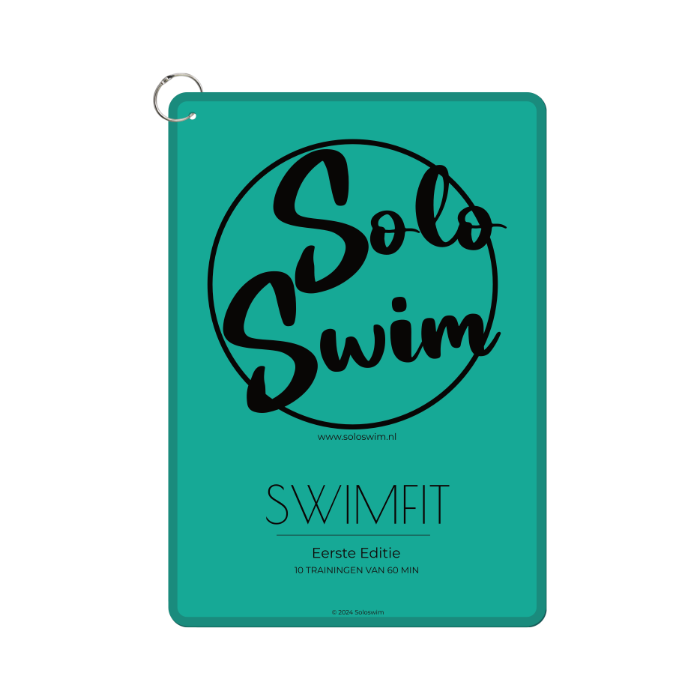
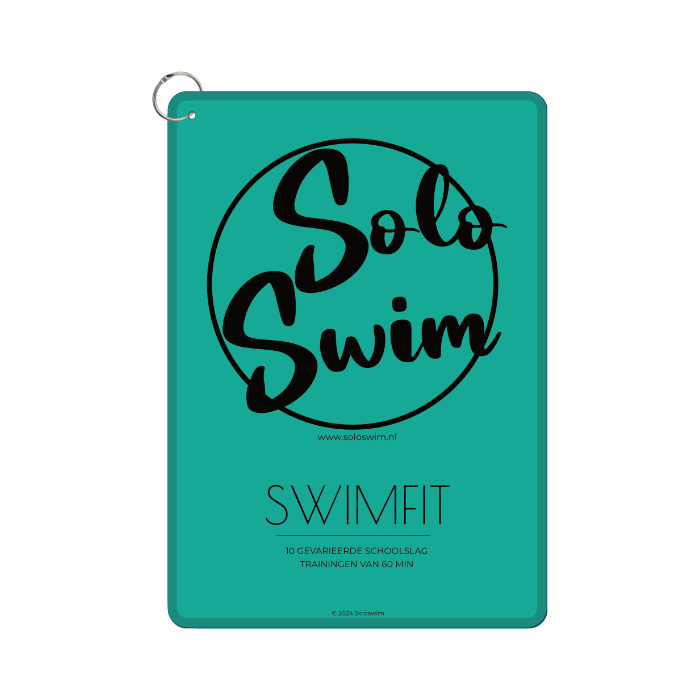
update swimfit

diff --git a/products/swimfit.md b/products/swimfit.md
@@ -2,7 +2,7 @@
 number: 0
 product_id: "SF1"
 title: "Swimfit"
-subtitle: "Gevarieerde oefeningen voor tijdens het banenzwemmen"
+subtitle: "10 gevarieerde schoolslag trainingen voor tijdens het banenzwemmen"
 price: 17.99
 description: "Vind je het banenzwemmen maar saai? Of zou je graag fitter willen worden en je conditie verbeteren? Volg dan de zwemschema’s uit deze Swimfit bundel en zoef met meer plezier door het water! Voor iedereen toegankelijk, ongeacht je niveau. De schoolslag die je als kind hebt geleerd vormt de basis, je hoeft dan ook niet je hoofd onder water te houden als je dat niet fijn vindt (of ingewikkelde slagen zoals de borstcrawl te zwemmen). De bundel is volledig waterproof zodat jij er onbeperkt mee kunt zwemmen."
 inStock: true
